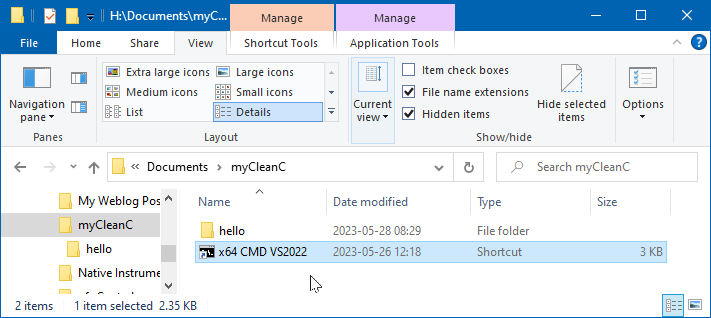
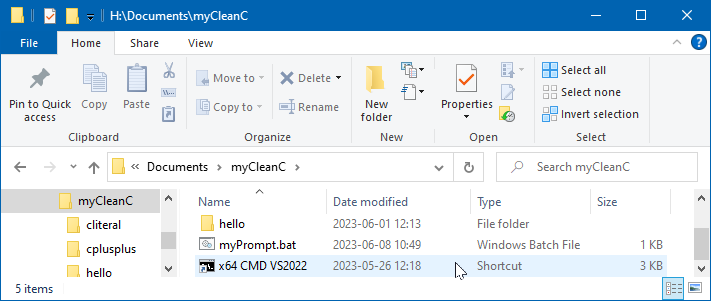
0.1.1 T060101c Improvements, TODOs cleanup #42

diff --git a/docs/tools/T060101/c/index.md b/docs/tools/T060101/c/index.md
@@ -1,4 +1,4 @@
-<!-- index.md 0.1.0                 UTF-8                          2023-06-01
+<!-- index.md 0.1.1                 UTF-8                          2023-06-08
      ----1----|----2----|----3----|----4----|----5----|----6----|----7----|--*
 
                          T060101c: GETTING TO "HELLO"
@@ -6,7 +6,7 @@
 
 # T060101c: [Getting to "Hello"](.)
 
-| ***[nfoTools](../../../)*** | [tools](../../)[>t060101](../)[>c](.) | ***[index.html](index.html) 0.1.0 2023-06-01*** |
+| ***[nfoTools](../../../)*** | [tools](../../)[>t060101](../)[>c](.) | ***[index.html](index.html) 0.1.1 2023-06-08*** |
 | :--                |       :-:          | --: |
 | ![nfotools](../../../images/nfoWorks-2014-06-02-1702-LogoSmall.png) | [Work in Progress](T060101c.txt) | ![Hard Hat Area](../../../images/hardhat-logo.gif) |
 
@@ -81,7 +81,8 @@ or equivalent wording.  The key element is "x64 Native."  Click that entry.
 ## 5. Compile and Run the Program
 
 A console window (sometimes called a terminal) will be opened on the desktop.
-There is identification of initialization as a Command Prompt in this case.
+There is identification of initialization as a
+[Command Prompt](../../T060501/) in this case.
 Commands are entered, step by step.
 
 ![Compiling the my CleanC\hello.c Program](T060101c4.png)
@@ -164,7 +165,7 @@ Prompt screen as a line of text.
 
 ![the myCleanC dir](T060101c4f.png)
 
-Finally, command line `H:\Documents\myCleanC\dir` issues the command for
+Finally, command line `H:\Documents\myCleanC>dir` issues the command for
 listing the current content of the Current Directory.
 
 The file `hello.obj` was produced by the compiler processing of `hello.c`.
@@ -198,7 +199,8 @@ with `myCLeanC\hello\`.
 
 Along with this, a shortcut is created for creation of the Command Prompt
 directly at `myCleanC\`.  This will be handy for working on all of the
-projects that will be placed under `myCleanC\`.
+projects that will be placed under `myCleanC\`.  There is also a short batch
+script, `myPrompt.bat` that is used to customize the display of prompts.
 
 A new Command Prompt right there is initiated by double-clicking the shortcut.
 
@@ -207,23 +209,37 @@ A new Command Prompt right there is initiated by double-clicking the shortcut.
 ![Compiling the new Hello](T060101c5.png)
 
 As can be seen in this session, the initialized Command Prompt starts
-directly at `myCleanC` and it is a short hop to the `hello` project.
+directly at `myCleanC` and there is a change in appearance accomplished by
+customizing the shortcut.  There are many choices available, impacting the
+overall color scheme of the display..
 
-The change in appearance is accomplished by customizing the shortcut.  There
-are many choices available.  It is also possible to alter the prompt text,
-choosing something different than `H:\Documents\myCleanC>`.
+To accentuate the appearance of command prompts in the display, `myPrompt`
+is the first command used in the fresh session.  This is used to customize
+the prompt text in a distinguishing black color.  Although not done here,
+It is also possible to alter the prompt text itself, choosing something
+different than `H:\Documents\myCleanC>` to confirm the Current Directory
+setting.
 
-The change in the directory reflects changes in the `hello.c` program that
-have the file be more verbose.  Yet the `hello.obj` and `hello.exe` files are
-smaller than at [5.6](#56-look-around-in-mycleanc), above.  The reduction of
+With the changes in startup, it is now a short hop to the `hello` project in
+its new directory.  Compilation is then carried out there.
+
+After compilation and confirmation of the revised `hello.c` program, the `dir`
+command listing of file sizes reflects changes in the `hello.c` program that
+have the file be much more more verbose, as shown in
+[6.3](#63-incorporation-of-visual-studio-code), below.  However, the
+`hello.obj` and `hello.exe` files are smaller than at
+[5.6](#56-look-around-in-mycleanc), above.  The reduction of
 program size is not particularly significant.  The practice of simplifying
-to what's needed is an important practice, making dependencies on libraries
+to what's needed is what's important, making dependencies on libraries
 and other code more precise.
 
+The file `hello.txt` is a log created as part of the demonstrations in
+[6.4, Quieting the Compilations](#64-quieting-the-compilations), below.
 
 There is also a new component, the subdirectory `.vscode\`.  This is entirely
 for use in conjunction with Visual Studio Code and need not be of any concern.
-It only has effect when Visual Studio code is opened on the `hello\` folder.
+It only has effect when Visual Studio code is opened on the `hello\` folder
+as demonstrated further next.
 
 ### 6.3 Incorporation of Visual Studio Code
 
@@ -242,8 +258,9 @@ annotation of files that are opened for review and possible editing.
 All of the green text is commentary.  Only lines 11-16 provide the C Language
 code.
 
-The color highlighting is provided automatically as readability hints of the
-program's C Language structure.
+The color highlighting is provided automatically by VS Code, providing
+readability hints of the program's C Language structure.  There is a large
+collection of colorization schemes to choose from.
 
 The `hello.c` program is now in Clean C.  What makes the difference is the
 first line,
@@ -258,15 +275,15 @@ For this `hello.c` none are identified.
 What will become more important is coming to appreciate what is **not**
 provoking any VS Code commentary.
 
-- The ``#include <stdio.h>` has been resolved to a file in the VC/C++
+- The `#include <stdio.h>` has been resolved to a file in the VC/C++
 environment.
 - The `int main(void)` is recognized as beginning the definition of a
 required `main()` procedure.
 - the `fputs()` matches with the definition in `stdio.h` and the two
 parameters are of the proper form.
-- `stdout` is recognized as the indicator of the standard output stream,
-usually directed to the current Command Prompt position, also established
-in `stdio.h`.
+- `stdout`, also established in `stdio.h` is recognized as the indicator
+of the standard output stream, her to be automatically directed to the Command
+Prompt window the program is operated from.
 
 All of this built-in checking, called
 [IntelliSense](https://code.visualstudio.com/docs/editor/intellisense),
@@ -287,7 +304,8 @@ successful case is the identification of the C/C++ compiler.
 
 If there are any error messages, they will still appear.  The quiet operation
 indicates that there are no difficulties.  In the case of error messages and
-warnings, it is necessary to repeat the compilation without the `>NUL`.
+warnings, it is necessary to repeat the compilation without the `>NUL` to
+observe further details.
 
 An alternative to sending the output to the `NUL` bit-bucket is to direct the
 output to a file.  The command `CL hello.c >hello.txt` accomplishes that.
@@ -321,6 +339,7 @@ from time to time.
 
 <!-- ----1----|----2----|----3----|----4----|----5----|----6----|----7----|--*
 
+     0.1.1 2023-06-08T19:58Z Improved descriptions and myPrompt usage
      0.1.0 2023-06-01T19:59Z Cleanup as 0.1.0 full beta level
      0.0.9 2023-06-01T17:13Z Touch-ups, suggestions by Bill Anderson
      0.0.8 2023-05-29T22:47Z Fix incorrect image link

diff --git a/docs/tools/index.md b/docs/tools/index.md
@@ -1,4 +1,4 @@
-<!-- index.md 0.0.20                UTF-8                          2023-06-03
+<!-- index.md 0.0.21                UTF-8                          2023-06-08
      ----1----|----2----|----3----|----4----|----5----|----6----|----7----|--*
 
                        NFOTOOLS TOOLCRAFT NOTEBOOK
@@ -6,9 +6,9 @@
 
 # ***nfoTools** [Toolcraft Notebook](.)*
 
-| ***[nfoTools](../)*** | [tools](.) | ***[index.html](index.html) 0.0.20 2023-06-03*** |
+| ***[nfoTools](../)*** | [tools](.) | ***[index.html](index.html) 0.0.21 2023-06-08*** |
 | :--                |       :-:          | --: |
-| ![nfotools](../images/nfoWorks-2014-06-02-1702-LogoSmall.png) | nfoTools Toolcraft Notebook | ![Hard Hat Area](../images/hardhat-logo.gif) |
+| ![nfotools](../images/nfoWorks-2014-06-02-1702-LogoSmall.png) | [Work in Progress](tools.txt) | ![Hard Hat Area](../images/hardhat-logo.gif) |
 
 For deeper, practical understanding of software development, it is important
 to work with a personal computer and rely on some available software tools.
@@ -41,7 +41,7 @@ open.***
 | [T211001](T211001) | 2021-10-20 | 0.0.3 2023-02-11 | Visual Studio Code for Windows |
 |                    |            |                  |          |
 | [T060501](T060501) | 2006-05-20 | 0.0.15 2022-06-19 | Windows CMD Command-Line Environment |
-| [T060101](T060101) | 2006-09-08 | 0.2.10 2023-06-03 | C/C++ Programming |
+| [T060101](T060101) | 2006-09-08 | 0.2.11 2023-06-08 | C/C++ Programming |
 |                    |            |                  |          |
 | [T000000](T000000.html) | 2005-12-25 | 0.0.5 2022-06-19 | Diary & Job Jar |
 
@@ -57,6 +57,7 @@ from time to time.
 
 <!-- ----1----|----2----|----3----|----4----|----5----|----6----|----7----|--*
 
+     0.0.21 2023-06-08T20:07Z T060101
      0.0.20 2023-06-03T18:44Z T060101
      0.0.19 2023-05-29T00:02Z T060101
      0.0.18 2023-05-24T16:25Z T060101 again

diff --git a/docs/tools/T060101/index.md b/docs/tools/T060101/index.md
@@ -1,4 +1,4 @@
-<!-- index.md 0.2.10                UTF-8                          2023-06-03
+<!-- index.md 0.2.11                UTF-8                          2023-06-08
      ----1----|----2----|----3----|----4----|----5----|----6----|----7----|--*
 
                          T060101: C/C++ PROGRAMMING
@@ -6,9 +6,9 @@
 
 # T060101: [C/C++ Programming](.)
 
-| ***[nfoTools](../../)*** | [tools](../)[>t060101](.) | ***[index.html](index.html) 0.2.9 2023-06-01*** |
+| ***[nfoTools](../../)*** | [tools](../)[>t060101](.) | ***[index.html](index.html) 0.2.11 2023-06-08*** |
 | :--                |       :-:          | --: |
-| ![nfotools](../../images/nfoWorks-2014-06-02-1702-LogoSmall.png) | C/C++ Programming | ![Hard Hat Area](../../images/hardhat-logo.gif) |
+| ![nfotools](../../images/nfoWorks-2014-06-02-1702-LogoSmall.png) | [Work in Progress](T60101.txt) | ![Hard Hat Area](../../images/hardhat-logo.gif) |
 
 The purpose of this material is establishing an on-ramp and guard rails for
 exploration and use of the C Language in development and maintenance of
@@ -71,7 +71,7 @@ point.
 
 | **ID** | **Started** | **Status** | **Topic** |
 |   :-:   |   :-:   |  :-:   |  ---  |
-| [T060101c](c/) | 2021-11-25 | 0.1.0 2023-06-01 | Getting to "Hello" |
+| [T060101c](c/) | 2021-11-25 | 0.1.1 2023-06-08 | Getting to "Hello" |
 | [T060101b](b/) | 2006-05-20 | 0.2.4 2023-06-03 | C/C++ Resources |
 |                           |            |                   |           |
 | [T060101a](a/) | 2005-09-08 | 0.2.0 2023-05-20 | Legacy Diary & Job Jar |
@@ -147,6 +147,7 @@ from time to time.
 
 <!-- ----1----|----2----|----3----|----4----|----5----|----6----|----7----|--*
 
+     0.2.11 2023-06-08T20:04Z T060101c
      0.2.10 2023-06-03T18:41Z T060101b-c
      0.2.9 2023-06-01T17:15Z Emphasize Clean C more
      0.2.8 2023-05-28T23:59Z T060101c
